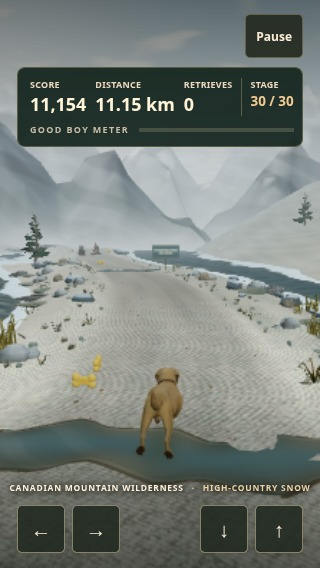
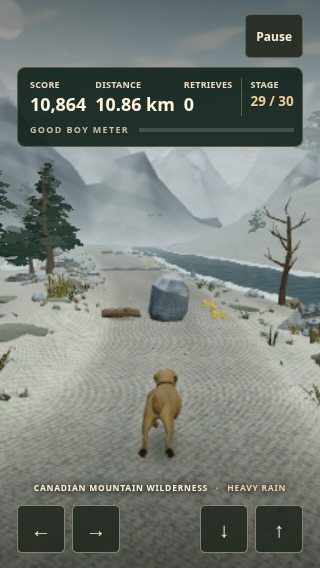
Complete the matched Great Migration image set

diff --git a/docs/production/MASTERPIECE_REPORT.md b/docs/production/MASTERPIECE_REPORT.md
@@ -87,7 +87,7 @@ A seed-7 Balanced WebKit trace ran from 385 to 394 simulated seconds with the no
 | Endpoint geometries / resident tiles | 94 / 7 | 87 / 6 |
 | Discarded simulation samples | 33 | 17 |
 
-No timing samples were removed. These timings primarily describe a software rendering environment with contention. Native pacing, heat and presentations within 20 ms remain unresolved. The separate accelerated offline WebKit journey used review artifact `a24cd73` and passed all 15 territories and reached Endless at 461.04 simulated seconds, with 408 scripted inputs and 923 sampled checkpoints. That compatibility check used Low and a 102 × 181 drawing buffer. It peaked at 7 tiles, 129 geometries, 12 textures, 81 draws and 201,080 triangles. The software runner reported 1,623 discarded samples with the accelerated clock. This fixture establishes completion and bounds resource use. Native timing targets require ordinary, unrecorded device play. [RC.8 raw trace](evidence/masterpiece/boreal-rc8.json) · [RC.9 raw trace](evidence/masterpiece/boreal-rc9.json)
+No timing samples were removed. These timings primarily describe a software rendering environment with contention. Native pacing, heat and presentations within 20 ms remain unresolved. The separate accelerated offline WebKit journey used review artifact `a24cd73` and passed all 15 territories and reached Endless at 461.04 simulated seconds, with 408 scripted inputs and 923 sampled checkpoints. A separate Chromium comparison captured matched gameplay views for all 15 territories. That compatibility check used Low and a 102 × 181 drawing buffer. It peaked at 7 tiles, 129 geometries, 12 textures, 81 draws and 201,080 triangles. The software runner reported 1,623 discarded samples with the accelerated clock. This fixture establishes completion and bounds resource use. Native timing targets require ordinary, unrecorded device play. [RC.8 raw trace](evidence/masterpiece/boreal-rc8.json) · [RC.9 raw trace](evidence/masterpiece/boreal-rc9.json)
 
 ## Verification and compatibility
 

diff --git a/docs/production/evidence/masterpiece/REVIEW.md b/docs/production/evidence/masterpiece/REVIEW.md
@@ -52,7 +52,7 @@ The Cypress views use the same gameplay camera and seed with different presets. 
 
 ## The Great Migration
 
-Seed 7, Low graphics and the small portrait viewport. Each still uses the production gameplay camera with the same territory midpoint. These checkpoints supplement the continuous offline run.
+Seed 7, Low graphics and the small portrait viewport. Each pair uses the production gameplay camera and the same location. The mountain pair starts five seconds into the territory to avoid a collision at the midpoint in the Legacy fixture. These checkpoints supplement the continuous offline run.
 
 | Territory | RC.8 | RC.9 |
 | --- | --- | --- |
@@ -70,4 +70,4 @@ Seed 7, Low graphics and the small portrait viewport. Each still uses the produc
 | Saskatchewan Parklands | [Before](route/before-parklands.jpg) | [After](route/after-parklands.jpg) |
 | Canadian Boreal Forest | [Before](route/before-boreal.jpg) | [After](route/after-boreal.jpg) |
 | Canadian Rocky Mountain Foothills | [Before](route/before-foothills.jpg) | [After](route/after-foothills.jpg) |
-| Canadian Mountain Wilderness | Capture timed out | [After](route/after-mountain.jpg) |
+| Canadian Mountain Wilderness | [Before](route/before-mountain.jpg) | [After](route/after-mountain.jpg) |
